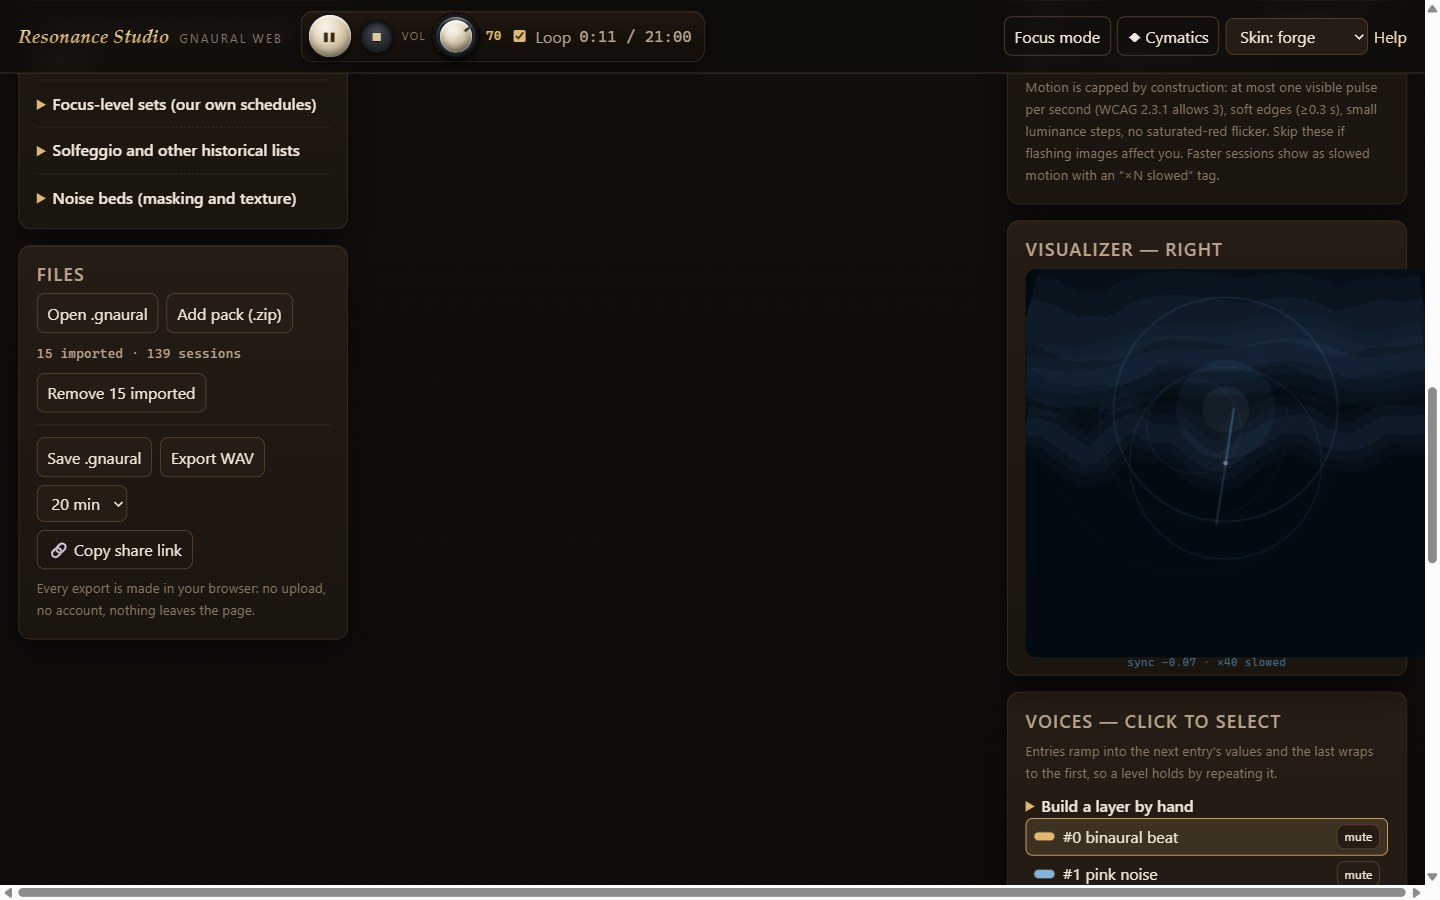
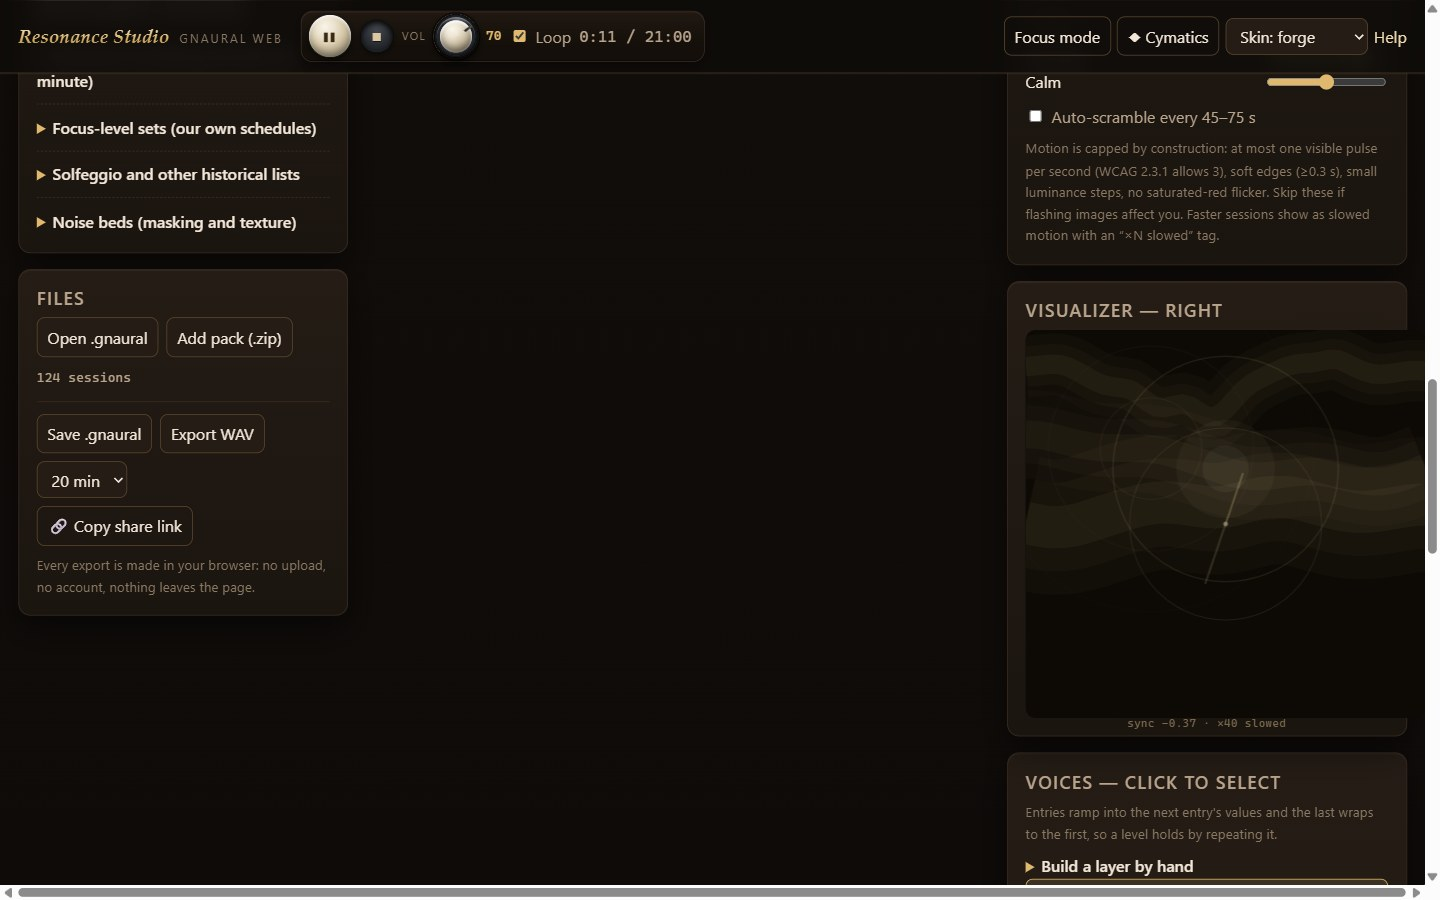
1.0d: phasefield backdrop

diff --git a/site/app/vizmodes.js b/site/app/vizmodes.js
@@ -1,7 +1,7 @@
 /* Gnaural Web — Resonance Studio: visualizer renderers (pure canvas2d, no DOM coupling).
  * Licensed GPL-2.0-or-later (see NOTICE.txt).
  *
- * THIRTEEN VISUALIZERS, one contract. Every mode draws from the SAME frame
+ * FOURTEEN VISUALIZERS, one contract. Every mode draws from the SAME frame
  * object F supplied by viz.js, which is built from the phase-exact mirrors in
  * vizmath.js (Cursor / GateMirror / EnvPhase / PhaseMirror) plus the measured
  * AnalyserNode features. The rendering rules follow the research briefs that
@@ -396,6 +396,253 @@
         ctx.lineWidth = lw;
         ctx.strokeStyle = ink(F, 0.45 + 0.25 * cu.hue, [0.05, 0.035, 0.025][pass] * (0.5 + F.pre.intensity));
         ctx.stroke();
+      }
+    }
+    ctx.restore();
+  };
+
+  /* --------------------------------------------------------- PhaseField *
+   * The Entrainment Body (route A of the phase-2 note): additive bokeh dust
+   * in two lobes, one per ear, thrown on each voice's OWN phase-exact gate.
+   * Mapping table: AUDIO-PARTICLE-CONCEPTS.md §1 — phase is displacement,
+   * loudness is opacity, timbre is size, luminance stays slow.
+   *
+   *   - emitters sit at +/-0.34 of the FIELD width with the f0 radius, so the
+   *     two lobes ARE the binaural pair (one per ear), not an analyser read;
+   *   - the throw is 0.9 + 2.6*sin(pi*gate.phase) sampled at spawn: the burst
+   *     is phase-exact and survives dropped frames;
+   *   - life 0..1 damps drift and alpha at the end (settle), never a pop;
+   *   - reduced motion: 300 static points, advected only on a gate edge;
+   *   - sprites are one pre-rendered 24 px radial gradient per palette slot,
+   *     drawn with 'lighter'; alpha is quantised to 8 steps (turbo clamp).
+   *                                                                         */
+  var PF_SPRITE = 24;
+  var PF_NARROW_W = 1000;                       /* field px: below = tier C  */
+  var PF_POOL_NARROW = 900, PF_POOL_WIDE = 1600, PF_POOL_REDUCED = 300;
+  var PF_TONES = [0.22, 0.42, 0.62, 0.82];
+  var PF_REDUCED = null;
+
+  function pfReduced(F) {
+    if (F && (F.reduced === true || (F.pre && F.pre.reduced === true))) return true;
+    if (PF_REDUCED === null) {
+      try { PF_REDUCED = !!(typeof matchMedia === "function" && matchMedia("(prefers-reduced-motion: reduce)").matches); }
+      catch (e) { PF_REDUCED = false; }
+    }
+    return PF_REDUCED;
+  }
+  function pfFollow(cur, target, dt, tau) {
+    return cur + (target - cur) * (1 - Math.exp(-dt / Math.max(1e-3, tau)));
+  }
+  /* centroid (Hz) -> 0..1 in log space: the colourIn tertile */
+  function pfCentroid(feat) {
+    var c = feat.centroidSlow || feat.centroid || 300;
+    return clamp(Math.log(Math.max(40, c) / 40) / Math.log(80), 0, 1);
+  }
+  function pfVisRate(F) {
+    var v = pulseVoice(F);
+    var r = v ? (v.kind === "binaural" ? v.env.visRate : v.gate.visRate) : 0.2;
+    return clamp(r || 0.2, 0.1, 2.2);
+  }
+
+  function PhaseField(seed) {
+    this.id = "phasefield";
+    this.r = VP.mulberry32(seed);
+    this.sprites = null;
+    this.skey = "";
+    this.buckets = [];
+    this.s = {
+      pool: 0, parts: [], seen: {}, alt: 0, prewarm: 0,
+      emit: 0, decay: 0.35, turb: 0, turbT: 0.10, size: 1, opac: 0.34,
+      tint: 0.55, sa: 0
+    };
+  }
+  PhaseField.prototype.reset = function () {
+    this.s.parts.length = 0; this.s.seen = {}; this.s.prewarm = 0; this.s.emit = 0;
+  };
+  PhaseField.prototype.ensureSprites = function (F) {
+    if (typeof document === "undefined" || !document.createElement) return null;
+    var key = F.pal ? (F.pal.id || "p") : "fallback";
+    if (this.sprites && this.skey === key) return this.sprites;
+    var out = [], i;
+    for (i = 0; i < PF_TONES.length; i++) {
+      var c = mkLayer(PF_SPRITE, PF_SPRITE);
+      if (!c) return null;
+      var c2 = c.getContext("2d"), h = PF_SPRITE / 2;
+      var gra = c2.createRadialGradient(h, h, 0, h, h, h);
+      gra.addColorStop(0, ink(F, PF_TONES[i], 0.80));
+      gra.addColorStop(0.34, ink(F, PF_TONES[i], 0.30));
+      gra.addColorStop(0.70, ink(F, PF_TONES[i], 0.08));
+      gra.addColorStop(1, ink(F, PF_TONES[i], 0));
+      c2.fillStyle = gra;
+      c2.fillRect(0, 0, PF_SPRITE, PF_SPRITE);
+      out.push(c);
+    }
+    this.sprites = out; this.skey = key;
+    return out;
+  };
+  /* one particle at the emitter of `side` (+1 right ear, -1 left) */
+  PhaseField.prototype.mkP = function (F, v, side, phase, str) {
+    var r = this.r, H = F.H;
+    var fw = F.field ? F.field.W : F.W;
+    var base = (v && v.base) || 220;
+    var radF = 0.6 + clamp(base, 30, 600) / 200 * 0.9;      /* f0 -> radius    */
+    var rad = radF * H * 0.045;
+    var ex = fw * (0.5 + side * 0.34);
+    var ey = H * 0.56;
+    var thr = (0.9 + 2.6 * Math.sin(Math.PI * clamp(phase, 0, 1))) * (0.30 + 0.12 * str);
+    var fl = clamp(0.55 * ((F.feat && F.feat.flux) || 0), 0, 0.35);   /* 0-0.35 */
+    var ang = r() * TAU, rr = Math.sqrt(r()) * rad;
+    return {
+      x: ex + Math.cos(ang) * rr,
+      y: ey + Math.sin(ang) * rr * 0.55,
+      vx: (r() - 0.5) * fl * H * 1.6 + side * r() * H * 0.02,
+      vy: -thr * H * 0.09 - r() * H * 0.02,
+      life: 0,
+      ttl: clamp((1.2 + r() * 1.2) / pfVisRate(F), 0.9, 4.5),
+      z: 0.2 + r() * 0.8,
+      tone: r(),
+      sp: 0
+    };
+  };
+  PhaseField.prototype.step = function (F) {
+    var s = this.s, dt = clamp(F.dt || 1 / 60, 0, 0.1);
+    var fw = F.field ? F.field.W : F.W, H = F.H;
+    var feat = F.feat || {};
+    var band = (feat.bandsAtt && feat.bandsAtt.carrier) || 0;
+    var calm = (F.pre && F.pre.calm) ? F.pre.calm : 1;
+    var red = pfReduced(F);
+    var vr = pfVisRate(F);
+    var i, v;
+
+    s.pool = red ? PF_POOL_REDUCED : (fw < PF_NARROW_W ? PF_POOL_NARROW : PF_POOL_WIDE);
+    s.emit = pfFollow(s.emit, 0, dt, 0.22);                /* release tau 0.22 */
+    s.decay = pfFollow(s.decay, 0.35 + 0.08 * vr, dt, 0.5);
+    s.turbT = pfFollow(s.turbT, 0.10 + 0.04 * vr, dt, 1.0);
+    s.size = pfFollow(s.size, clamp(0.9 + 1.4 * band, 0.8, 2.6), dt, 0.4);
+    s.opac = pfFollow(s.opac, Math.min(0.5, 0.34 + 0.22 * (feat.rmsSlow || 0)), dt, 1.2);
+    s.tint = pfFollow(s.tint, pfCentroid(feat), dt, 1.6);
+    s.turb = red ? 0 : pfFollow(s.turb, 0.42 * (feat.rmsAtt || 0) * (1 / calm), dt, 0.5);
+    if (s.sa > 0) s.sa = Math.max(0, s.sa - dt);
+
+    /* gate opening edges: iso openings / binaural envelope wraps */
+    var edges = 0;
+    for (i = 0; i < F.voices.length; i++) {
+      v = F.voices[i];
+      var ev = (v.kind === "binaural") ? ((v.env && v.env.wraps) || 0) : ((v.gate && v.gate.openings) || 0);
+      var was = (s.seen[v.i] === undefined) ? ev : s.seen[v.i];
+      if (ev > was) {
+        var dn = Math.min(4, ev - was);
+        edges += dn;
+        s.emit = 6;                                       /* attack 0.04 s   */
+        var ph0 = (v.gate && v.gate.phase) || 0;
+        for (var b = 0; b < dn; b++) {
+          var sd = (v.kind === "binaural") ? ((b % 2) ? 1 : -1) : (((s.alt++) % 2) ? 1 : -1);
+          this.emit(F, v, sd, 22, ph0, s.emit, true);
+        }
+      }
+      s.seen[v.i] = ev;
+    }
+
+    /* population top-up (prewarm, resize, and the settle refill) */
+    if (s.parts.length < s.pool) {
+      var want = Math.min(s.pool - s.parts.length, Math.ceil((s.pool - s.parts.length) * Math.min(1, 5 * dt)) + 1);
+      var src = pulseVoice(F) || F.voices[0] || null;
+      for (i = 0; i < want; i++) {
+        s.parts.push(this.mkP(F, src, ((s.alt++) % 2) ? 1 : -1,
+          (src && src.gate && src.gate.phase) || 0.5, s.emit));
+      }
+    }
+
+    /* reduced motion: integrate one fixed step per gate edge only */
+    var stepDt = dt;
+    if (red) {
+      if (s.prewarm < 2) s.prewarm++;
+      else if (edges === 0) return;
+      stepDt = 0.16;
+    }
+
+    var tq = F.t * s.turbT, sc = 0.010;
+    var g = -0.55 * (feat.sync === null ? 1.35 : 1) * H * 0.10;
+    if (red) g *= 0.5;
+    for (i = s.parts.length - 1; i >= 0; i--) {
+      var p = s.parts[i];
+      p.life += stepDt / p.ttl;
+      if (p.life >= 1 || p.x < -60 || p.x > fw + 60 || p.y < -80 || p.y > H + 60) {
+        var rv = pulseVoice(F) || F.voices[0] || null;
+        s.parts[i] = this.mkP(F, rv, ((s.alt++) % 2) ? 1 : -1,
+          (rv && rv.gate && rv.gate.phase) || 0.5, s.emit);
+        continue;
+      }
+      var settle = p.life > 0.70 ? (p.life - 0.70) / 0.30 : 0;
+      var ax = 0, ay = g;
+      if (s.turb > 0) {
+        var nx = p.x * sc, ny = p.y * sc;
+        ax += (VP.fbm2(nx, ny, tq, 2) - 0.5) * 2 * s.turb * H;
+        ay += (VP.fbm2(nx + 37.7, ny + 11.3, tq, 2) - 0.5) * 1.2 * s.turb * H;
+      }
+      var damp = Math.exp(-(s.decay + settle * 2.6) * stepDt);
+      p.vx = (p.vx + ax * stepDt) * damp;
+      p.vy = (p.vy + ay * stepDt) * damp;
+      p.x += p.vx * stepDt;
+      p.y += p.vy * stepDt;
+    }
+  };
+  PhaseField.prototype.emit = function (F, v, side, n, phase, str, hot) {
+    var s = this.s, i;
+    for (i = 0; i < n && s.parts.length < s.pool; i++) {
+      var p = this.mkP(F, v, side, phase, str);
+      if (hot && this.r() < 0.25) p.sp = 1;
+      s.parts.push(p);
+    }
+    if (hot && F.feat) s.sa = Math.min(0.5, 0.55 * clamp(F.feat.flux || 0, 0, 1));
+  };
+  PhaseField.prototype.draw = function (F) {
+    var s = this.s, ctx = F.ctx, H = F.H;
+    var fw = F.field ? F.field.W : F.W;
+    var inten = (F.pre && F.pre.intensity) || 0.7;
+    ctx.save();
+    /* the opaque dark field first: additive only reads on a floor */
+    ctx.fillStyle = veil(F, clamp(0.58 + 0.22 * inten, 0, 1));
+    ctx.fillRect(0, 0, fw, H);
+    if (!s.parts.length) { ctx.restore(); return; }
+    var spr = this.ensureSprites(F);
+    var red = pfReduced(F);
+    var lum = 0.7 + 3.0 * (F.lum || 0);
+    var B = this.buckets, k, j, p, a, sz, ti;
+    for (k = 0; k < 9; k++) if (B[k]) B[k].length = 0;
+    /* alpha quantised to 8 steps: the turbo clamp keeps luminance steps small */
+    for (j = 0; j < s.parts.length; j++) {
+      p = s.parts[j];
+      var fin = smoothstep(clamp(p.life * 5, 0, 1));
+      var fout = 1 - smoothstep(clamp((p.life - 0.70) / 0.30, 0, 1));
+      a = s.opac * (0.35 + 0.65 * p.z) * fin * fout * lum;
+      if (p.sp && s.sa > 0) a += s.sa * 0.55;
+      a = clamp(a, 0.012, 0.5);
+      k = clamp(Math.round(a * 16), 1, 8);
+      if (!B[k]) B[k] = [];
+      B[k].push(p);
+    }
+    ctx.globalCompositeOperation = "lighter";
+    for (k = 8; k >= 1; k--) {
+      var arr = B[k];
+      if (!arr || !arr.length) continue;
+      ctx.globalAlpha = k / 16;
+      for (j = 0; j < arr.length; j++) {
+        p = arr[j];
+        ti = clamp(Math.floor((s.tint + (p.tone - 0.5) * 0.30) * 3.999), 0, 3);
+        sz = clamp(5 + 13 * s.size * (0.55 + 0.75 * p.z) * (0.7 + 0.5 * (1 - p.life)) * (0.75 + 0.5 * inten), 2, 18);
+        if (spr && spr[ti]) ctx.drawImage(spr[ti], p.x - sz / 2, p.y - sz / 2, sz, sz);
+        else if (red) {
+          ctx.beginPath();
+          ctx.arc(p.x, p.y, Math.max(1, sz * 0.22), 0, TAU);
+          ctx.fillStyle = ink(F, PF_TONES[ti], 1);
+          ctx.fill();
+        } else {
+          ctx.beginPath();
+          ctx.arc(p.x, p.y, sz * 0.5, 0, TAU);
+          ctx.fillStyle = ink(F, PF_TONES[ti], 0.55);
+          ctx.fill();
+        }
       }
     }
     ctx.restore();
@@ -822,6 +1069,7 @@
 
   var FACTORY = {
     tide: Tide, drift: Drift, rainfall: Rainfall, score: Score, aurora: Aurora,
+    phasefield: PhaseField,
     pulse: Pulse, phasors: Phasors, traces: Traces, orbits: Orbits,
     ripples: Ripples, harmonograph: Harmonograph, weave: Weave, meters: Meters
   };
@@ -832,6 +1080,7 @@
     rainfall:     { name: "Rainfall",     space: "panel", role: "backdrop" },
     score:        { name: "Score",        space: "panel", role: "backdrop" },
     aurora:       { name: "Aurora",       space: "field", role: "backdrop" },
+    phasefield:   { name: "Phase Field",  space: "field", role: "backdrop" },
     pulse:        { name: "Pulse",        space: "panel", role: "overlay" },
     phasors:      { name: "Phasors",      space: "panel", role: "overlay" },
     traces:       { name: "Traces",       space: "panel", role: "overlay" },
@@ -845,7 +1094,7 @@
   function mod1(x) { x = x % 1; return x < 0 ? x + 1 : x; }
 
   var api = {
-    BACKDROPS: ["off", "tide", "drift", "rainfall", "score", "aurora"],
+    BACKDROPS: ["off", "tide", "phasefield", "drift", "rainfall", "score", "aurora"],
     OVERLAYS: ["pulse", "phasors", "traces", "orbits", "ripples", "harmonograph", "weave", "meters"],
     META: META,
     create: function (id, seed) {

diff --git a/site/app/index.html b/site/app/index.html
@@ -222,7 +222,7 @@
 <!-- visualizer system: mounts its own panels + menu card, follows the audio -->
 <script src="vizmath.js?v=82v"></script>
 <script src="vizpal.js?v=82v"></script>
-<script src="vizmodes.js?v=82w"></script>
+<script src="vizmodes.js?v=82x"></script>
 <script src="vizpresets.js?v=1a"></script>
 <script src="viz.js?v=82z"></script>
 <!-- the dedicated cymatic chamber: physics -> field -> renderer -> UI -->
